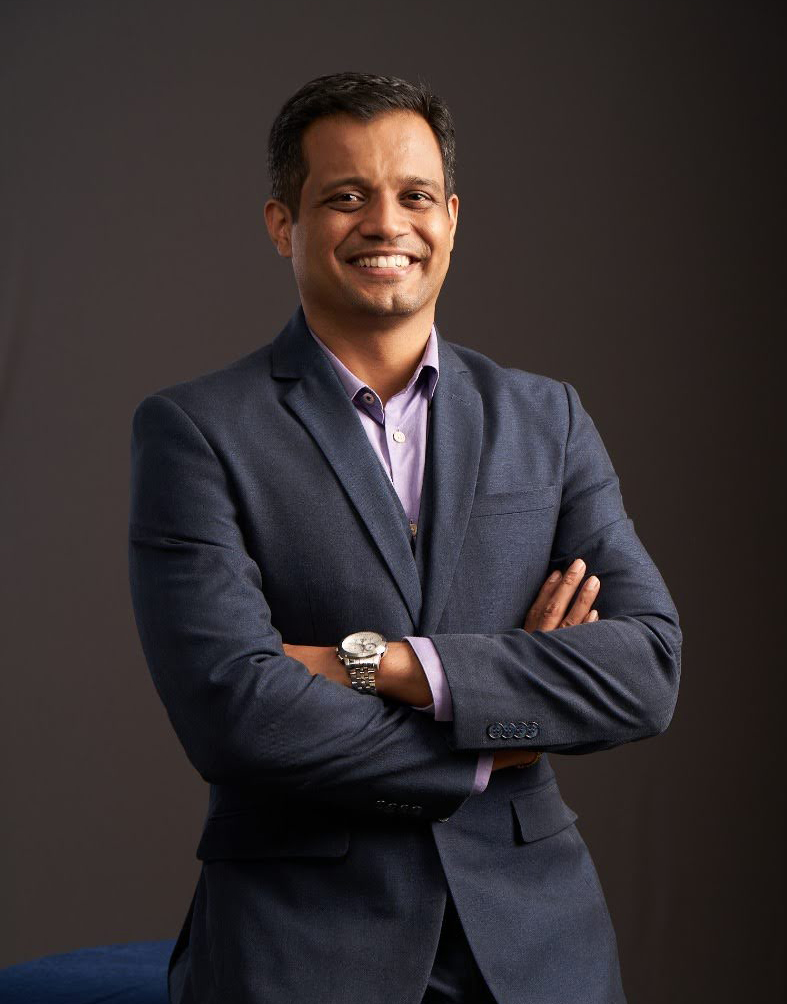
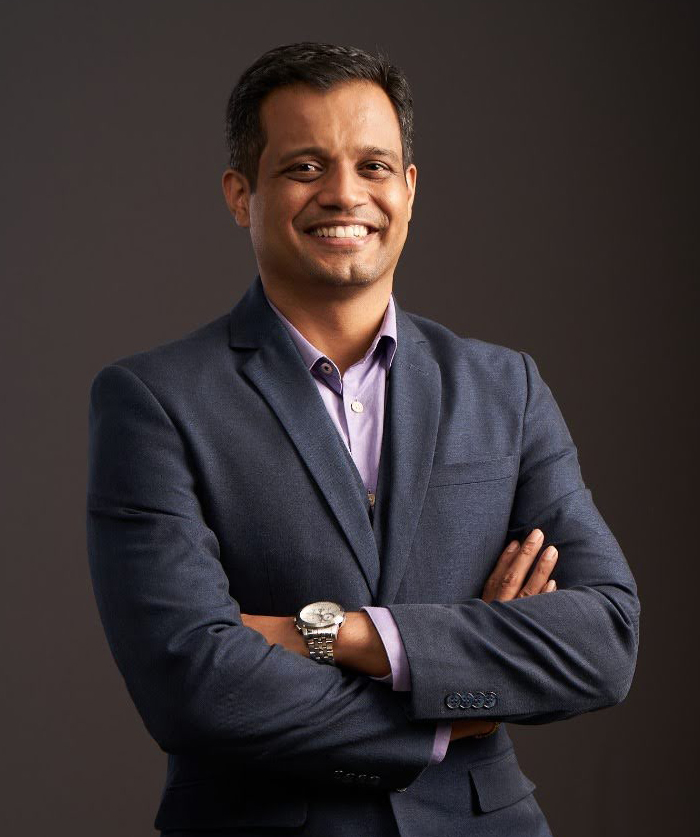
Updated Chirag profile photo

diff --git a/src/lib/founders.ts b/src/lib/founders.ts
@@ -45,7 +45,7 @@ export const founders: Founder[] = [
       "Niyati is the Founder & COO of Cap Alpha WhiteTrust — a multi-disciplinary professional bringing together a rare combination of financial, legal and compliance expertise.",
       "With over 15 years across estate & succession planning and end-to-end fund services, she advises entrepreneurs, promoter families, senior executives and family offices on the full spectrum of succession and estate matters — known for her meticulous documentation and ability to navigate complex multi-jurisdictional structures.",
     ],
-    qualifications: "Chartered Accountant (CA) · Company Secretary (CS) · LLB (Mumbai University) · B.Com",
+    qualifications: "Chartered Accountant (CA) · Company Secretary (CS) · Gen.LLB (Mumbai University) · B.Com",
     career: [
       { firm: "CAWT", role: "Founder & COO — All practice areas" },
       { firm: "Vistra", role: "Fund Services, Estate Planning & Compliance" },